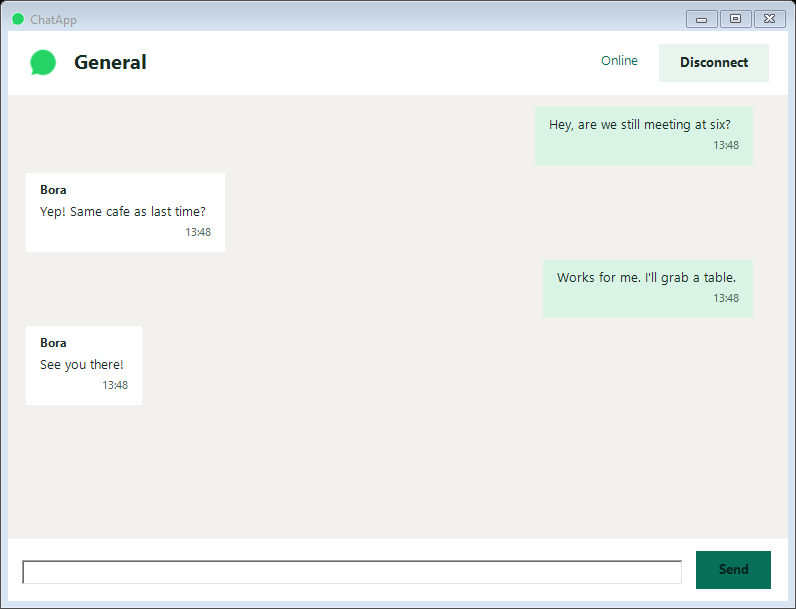
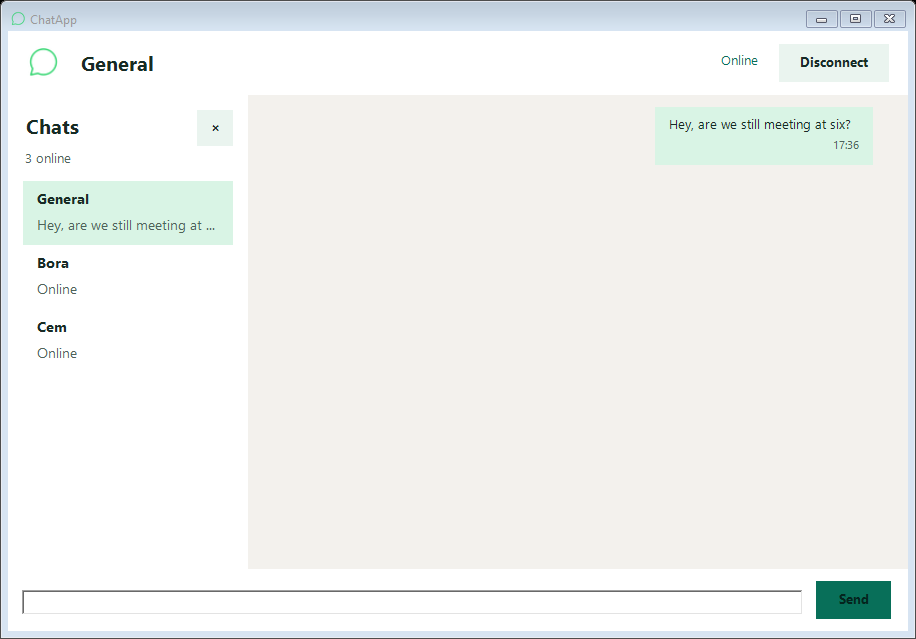
docs: document private chats and refresh screenshots

diff --git a/README.md b/README.md
@@ -1,6 +1,6 @@
-# ChatApp
+# <img src="docs/icon.png" width="24" height="24" alt=""> ChatApp
 
-ChatApp is a desktop messaging application with a C# Windows Forms client and an Elixir TCP server. Users join a shared room with a display name and exchange timestamped messages in real time.
+A desktop messaging application with a C# Windows Forms client and an Elixir TCP server. Join a shared room or start a private conversation with another connected user.
 
 ## Technologies
 
@@ -10,7 +10,7 @@ ChatApp is a desktop messaging application with a C# Windows Forms client and an
 
 ## Run locally
 
-The client requires Windows and the .NET 10 SDK. The server requires Elixir 1.19 with Erlang/OTP 28. The project uses the standard libraries on both sides.
+The client requires Windows and the .NET 10 SDK. The server requires Elixir 1.19 with Erlang/OTP 28. Both use standard libraries.
 
 In a PowerShell terminal at the repository root, start the server:
 
@@ -25,26 +25,56 @@ In a separate terminal at the repository root, launch the client:
 dotnet run --project ChatApp.Client/ChatApp.Client.csproj
 ```
 
-Run the client command again in a third terminal. Enter a different display name in each client and connect to `127.0.0.1` on port `5050`. Press Enter or select **Send** to send a message. Select **Disconnect** to leave the room. The server console shows the connected users as they join and leave.
+Run the client command again in another terminal. Enter a different display name in each client and connect to `127.0.0.1` on port `5050`.
+
+## Using the chat
+
+- Select **General** in the left **Chats** drawer to talk to everyone in the room.
+- Select a user to open a private conversation. The server forwards private messages to the sender and recipient.
+- Press Enter or select **Send** to send your message. Your messages appear on the right, with incoming messages on the left and a local timestamp on each bubble.
+- Each conversation keeps its own messages and draft during the current connection session. The chat list shows the latest message and an unread count. Opening a conversation clears its unread count.
+- Select the conversation title in the top bar to open or close the drawer. You can also close it with **×** or Esc.
+- If a participant disconnects, their existing conversation stays visible. Sending becomes available again when they reconnect with the same display name.
+- Select **Disconnect** to leave. Reconnecting starts a fresh local session. The server console lists users as they join and leave.
+
+## Run on a local network
+
+On the server computer, set `CHAT_BIND` to its local IPv4 address before starting Mix. Replace the example address with the server computer's address.
+
+```powershell
+Set-Location server
+$env:CHAT_BIND = "192.168.1.20"
+mix run --no-halt
+```
+
+On another computer on the same network, enter that address and port `5050` in the client. The server computer must allow incoming TCP connections to that port on the private network. You can set `CHAT_PORT` on the server to choose another port.
 
 ## Project structure
 
 | Path | Responsibility |
 | --- | --- |
-| `ChatApp.Client/` | Windows Forms interface, message rendering, and TCP client |
-| `server/` | Elixir listener, connection handling, and shared chat room |
-| `docs/screenshots/` | Screenshots of the running client |
+| `ChatApp.Client/ChatForm.cs` | Connection controls, chat selection, and interface |
+| `ChatApp.Client/ChatConnection.cs` | TCP connection and JSON messages |
+| `ChatApp.Client/Conversation.cs` | Conversation history, drafts, and unread counts |
+| `ChatApp.Client/MessageFeed.cs` | Message bubbles and scrolling |
+| `ChatApp.Client/Assets/` | Windows application icon |
+| `server/lib/chat_app.ex` | Elixir listener, connections, room membership, and message routing |
+| `docs/` | README icon and in-app screenshots |
 
 ## Current limitations
 
-The server listens on loopback by default. It supports one shared room, and a display name identifies the connection only for that session. Messages are not stored on the server. The TCP connection is unencrypted.
+The server listens on loopback by default. Display names identify users for a connection session and have no authentication. Messages are not stored on the server. Client histories and drafts reset on reconnection or application exit. The TCP connection is unencrypted.
 
 ## Screenshots
 
 **Join screen**
 
-![User name, server address, and port fields on the join screen](docs/screenshots/join.png)
+![User name, server address, and port fields](docs/screenshots/join.png)
 
-**Shared conversation**
+**Shared room**
 
-![Incoming and outgoing message bubbles with timestamps](docs/screenshots/conversation.png)
+![General room with the left chat list and current application icon](docs/screenshots/conversation.png)
+
+**Private conversation**
+
+![Private conversation with separate messages, draft, and latest message previews](docs/screenshots/private-chat.png)
